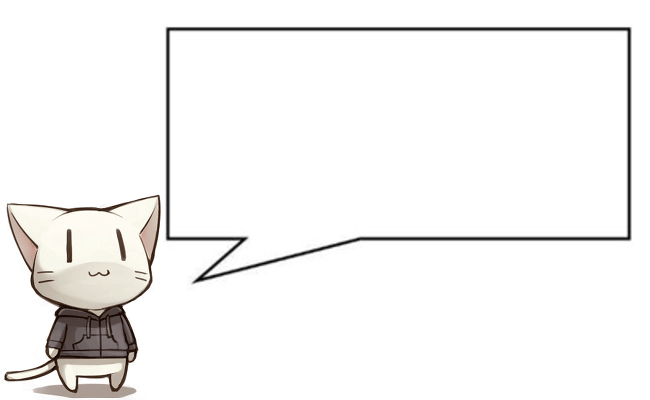
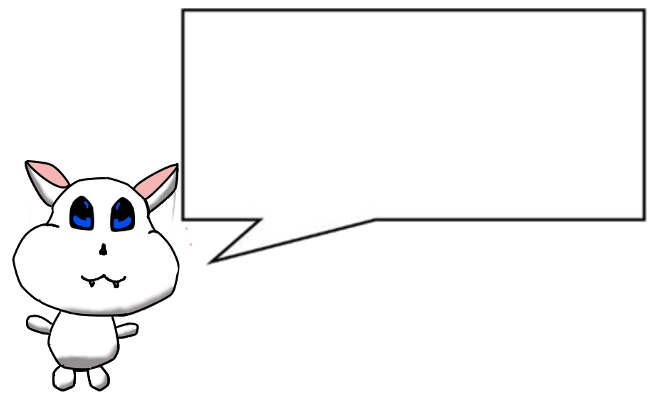
Added beeps

Changed region(s): [[0.0, 0.0, 1.0, 1.0]]

diff --git a/js/mainSapphire.js b/js/mainSapphire.js
@@ -119,6 +119,8 @@ Game.prototype.begin = function () {
     initEvents();
     requestAnimationFrame(this.loop.bind(this));
     
+   Game.prototype.checkEvents.lastBeep = TIME;
+    
 };
 
 Game.prototype.loop = function () {
@@ -153,9 +155,24 @@ Game.prototype.checkEvents = function () {
     {
         if(this.events[i].status == true){
             this.cxt.speech = new Image();
-            this.cxt.speech.src = "img/message1.png";
+            if(this.events[i].count<4){
+            this.cxt.speech.src = "img/messageGood.png";
+            var audio = new Audio('img/beepGood.wav');
+            }
+            else{
+            this.cxt.speech.src = "img/messageEvil.png";
+            var audio = new Audio('img/beepEvil.wav');
+            }
             this.cxt.drawImage(this.cxt.speech, this.events[i].x, this.events[i].y, 600, 400);
-            wrapText(this.cxt, this.events[i].evtTexts[this.events[i].count],this.events[i].x + 180, this.events[i].y + 70, 400, 28, this.events[i].initTime, TIME);
+            this.events[i].doneScroll = wrapText(this.cxt, this.events[i].evtTexts[this.events[i].count],this.events[i].x + 190, this.events[i].y + 40, 370, 28, this.events[i].initTime, TIME);
+            
+            if((TIME - Game.prototype.checkEvents.lastBeep) >= 90 && this.events[i].doneScroll == false){
+                audio.play();
+                console.log("BEEP");
+                Game.prototype.checkEvents.lastBeep = TIME;
+            }
+            
+            
             if(this.events[i].count>=this.events[i].maxcount)
             {
                 this.events[i].status = false;

diff --git a/js/objects.js b/js/objects.js
@@ -204,8 +204,8 @@ function initTextLabels() {
 
 function initEvents() {
     
-    var evtIntroText = ["", "Hello!", "Welcome to Sapphire!  This is a very long string in order to test text wrapping.  There should be several line breaks here automatically added in.", "This is also another long string.  Hopefully, again, the text is properly wrapped and contained within this textbox.  Otherwise this will be a very long single line", "Goodbye", ""]; 
-    var evtIntro = new Event(450, 200, false, 0, evtIntroText.length-1, evtIntroText, 0);
+    var evtIntroText = ["", "Hello!", "Welcome to Sapphire!  I am a good fairy thing.  You can tell by my cool colored eyes and smiling face and shading.  Also my beeps are rather light and higher pitches.", "But", "I am the evil fairy thing.  My eyes are red, a common theme for evil.  Also I have a more sinister mouth.  In addition, my beeps are lower.", "Goodbye", ""]; 
+    var evtIntro = new Event(450, 200, false, 0, evtIntroText.length-1, evtIntroText, 0, false);
 
     S.events = [];
     

diff --git a/js/init.js b/js/init.js
@@ -13,19 +13,13 @@ $(document).ready(function () {
     S.begin();
 });
 
-function sleep(delay) {
-    var start = new Date().getTime();
-    while (new Date().getTime() < start + delay);
-}
 
 function wrapText(context, text, x, y, maxWidth, lineHeight, initTime, currTime) {
         var words = text.split('');
         var line = '';
-
-    console.log("Time: "+(currTime-initTime));
+    
     var wordLength = Math.round((currTime - initTime)/15);
     if (wordLength >= words.length) wordLength = words.length;
-    console.log(wordLength);
     for(var n = 0; n < wordLength; n++) {
         var testLine = line + words[n] + '';
         var metrics = context.measureText(testLine);
@@ -40,6 +34,9 @@ function wrapText(context, text, x, y, maxWidth, lineHeight, initTime, currTime)
         }
     }
     context.fillText(line, x, y);
+    
+    if(wordLength >= words.length) return true;
+    else    return false;
 }
 
 function wrapTextOld(context, text, x, y, maxWidth, lineHeight) {

diff --git a/js/objectClasses.js b/js/objectClasses.js
@@ -40,7 +40,7 @@ function TextLabel(x, y, txt, font, color) {
 // ================================================================================
 // ============== Events
 // ================================================================================
-function Event(x, y, status, count, maxcount, evtTexts, initTime) {
+function Event(x, y, status, count, maxcount, evtTexts, initTime, doneScroll) {
     this.x = x;
     this.y = y;
     
@@ -51,5 +51,7 @@ function Event(x, y, status, count, maxcount, evtTexts, initTime) {
     
     this.evtTexts = evtTexts;
     
-    this.initTime = initTime
+    this.initTime = initTime;
+    
+    this.doneScroll = doneScroll;
 }
